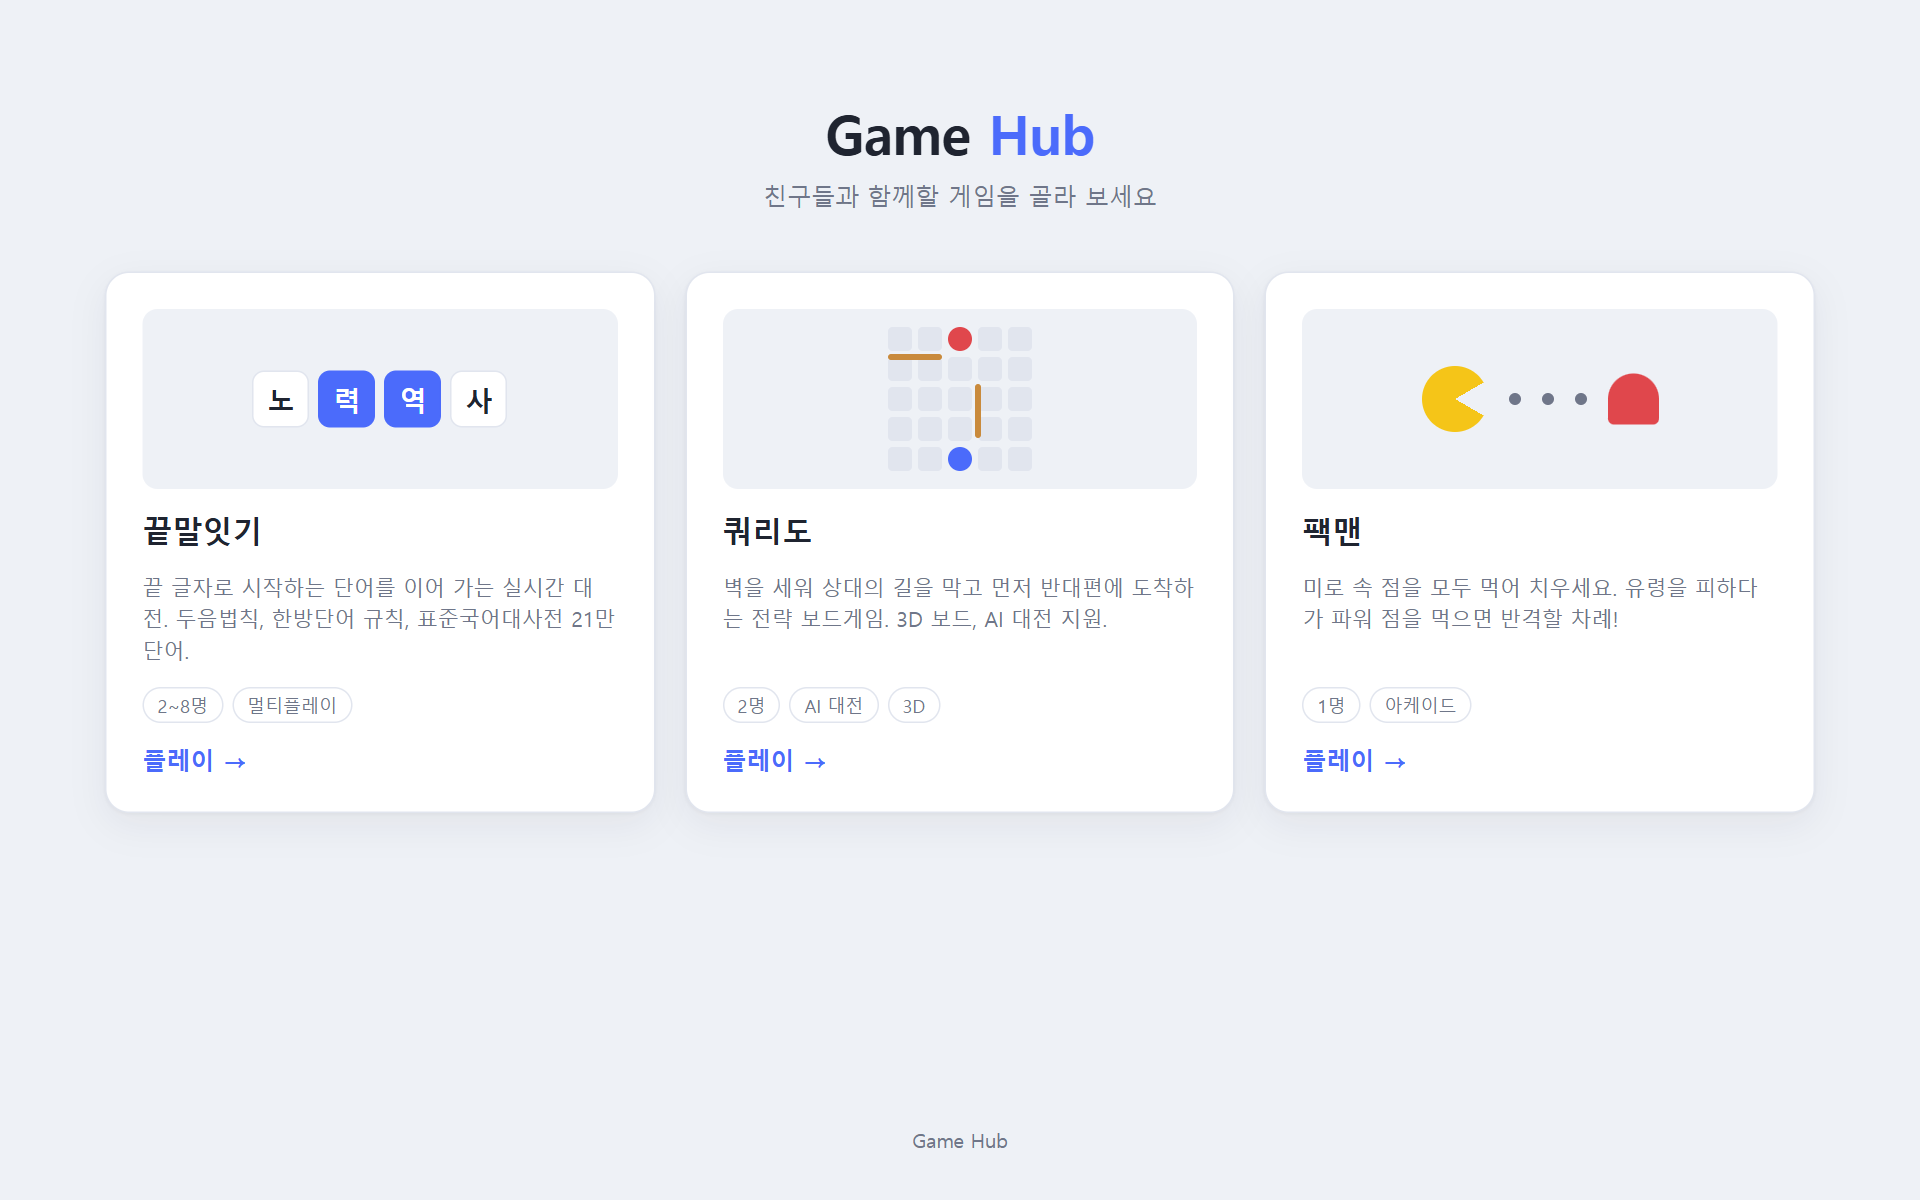
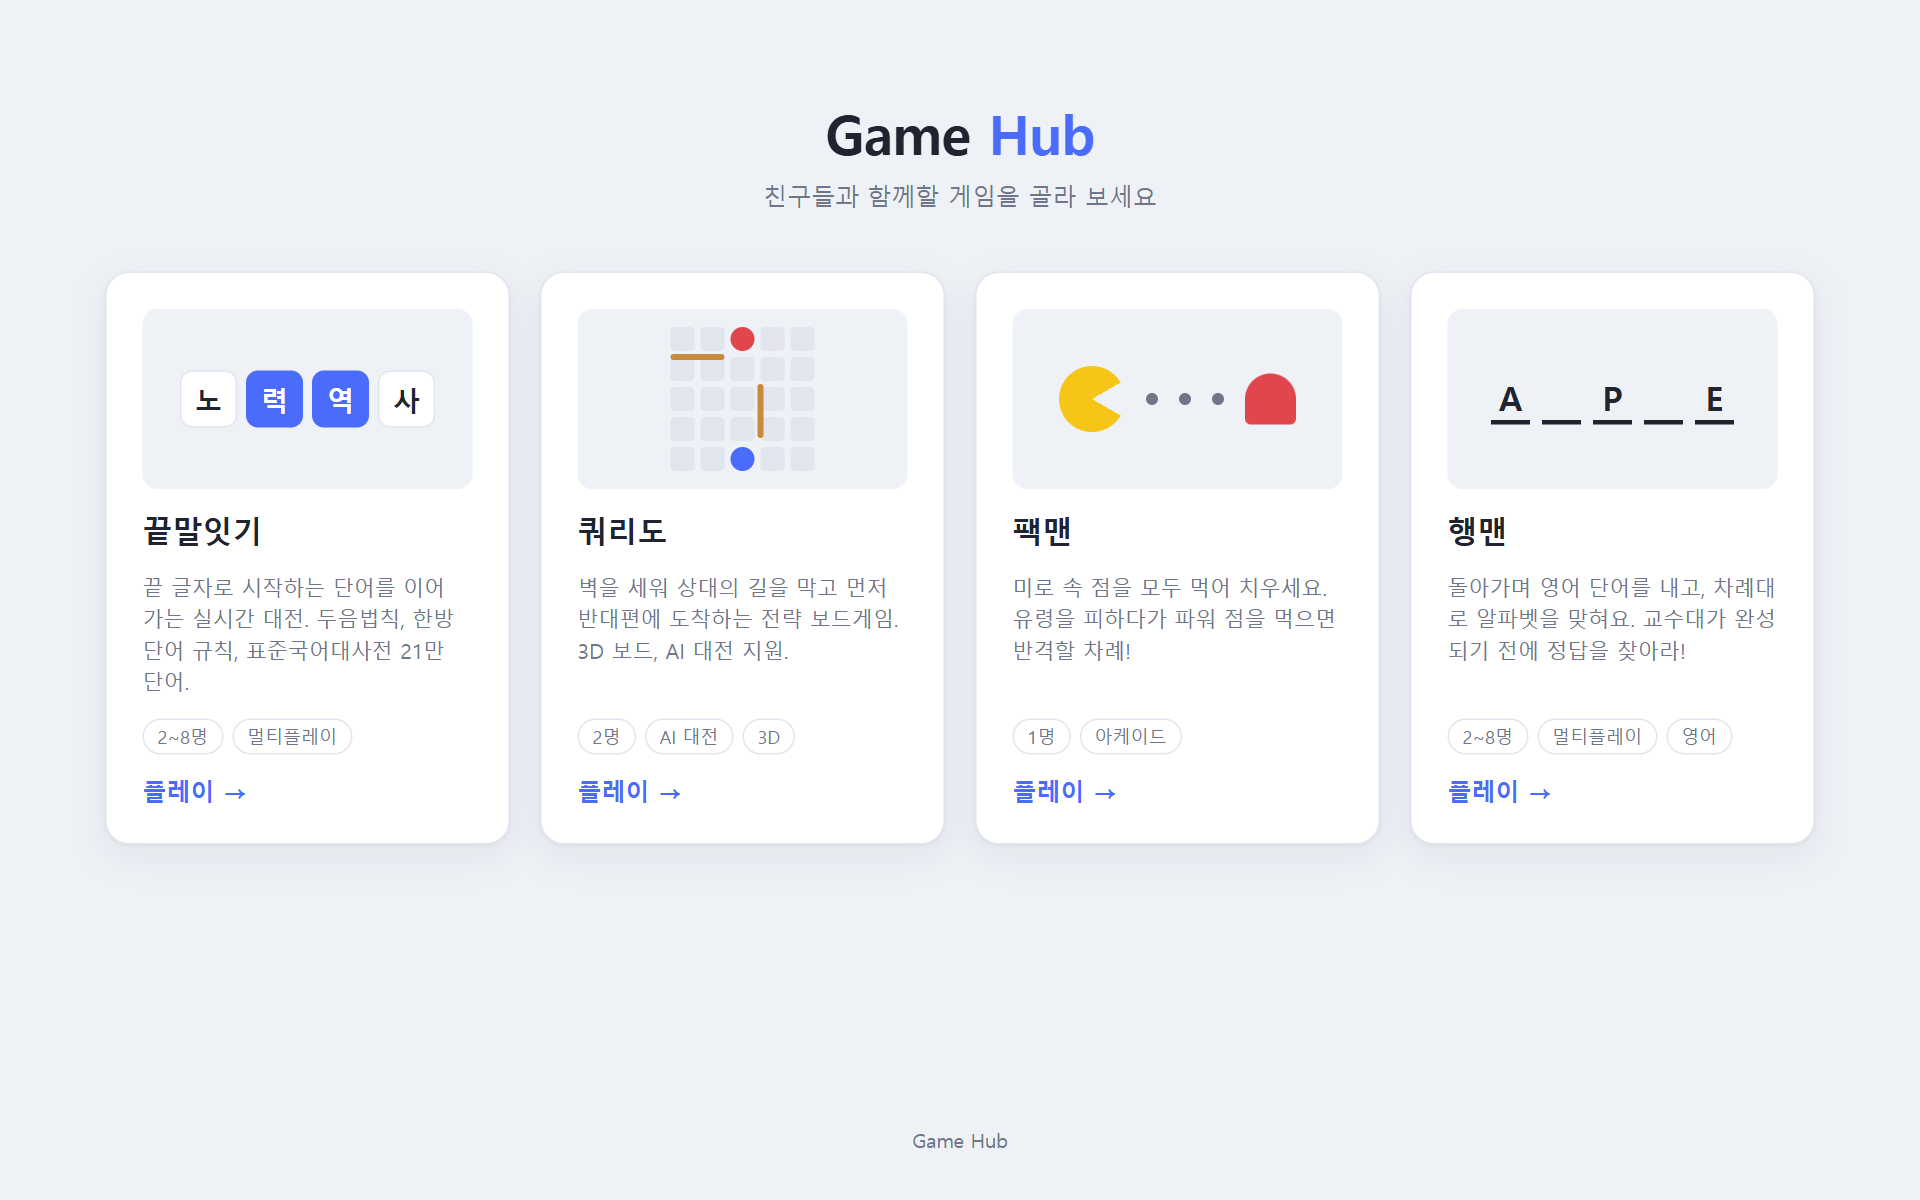
docs: 행맨 README와 개발 문서, 메인 화면 스크린샷 갱신

diff --git a/hangman/README.md b/hangman/README.md
@@ -1,0 +1,92 @@
+<div align="center">
+
+# 🔠 행맨 (Hangman)
+
+**돌아가며 문제를 내고, 교수대가 완성되기 전에 영어 단어를 맞혀라**
+
+### [▶ 지금 플레이하기](http://100.53.186.9/hangman/)
+
+<img src="../docs/images/hangman-game.png" alt="행맨 게임 화면" width="760">
+
+</div>
+
+---
+
+## 이런 게임이에요
+
+한 명이 **영어 단어**를 내면, 나머지가 **차례대로 알파벳을 하나씩** 골라 맞혀요.
+단어에 있는 글자면 빈칸이 채워지고, 없는 글자면 교수대에 사람이 한 획씩 그려집니다.
+**교수대가 완성되기 전에** 단어를 알아내세요!
+
+- 👥 **2~8명**이 함께해요. 모두 한 번씩 **출제자**가 돼요.
+- 📖 출제 단어는 **영어 사전(약 17만 단어)**에 있는 말만 낼 수 있어요.
+- 💡 추측이 몇 번 지나면 **힌트**가 공개돼요.
+
+## 게임 방법
+
+1. **닉네임을 입력**하고 로비에서 방을 만들거나 들어갑니다.
+2. 모두 **준비**하면 방장이 **게임 시작**을 눌러요.
+3. **방에 들어온 순서대로** 한 명씩 출제자가 돼요. 출제자는 영어 단어와 힌트(선택)를 적어서 냅니다.
+4. 나머지 사람은 **들어온 순서대로** 한 명씩 알파벳을 골라요. 화면 키보드를 누르거나 실제 키보드로 쳐도 돼요.
+5. 단어를 알 것 같으면 내 차례에 **단어 전체를 입력**해서 한 번에 맞힐 수도 있어요.
+6. 모두 출제를 한 번씩 하면 게임이 끝나고 순위가 나와요.
+
+## 규칙
+
+| 상황 | 결과 |
+|---|---|
+| 있는 글자를 고름 | 그 글자가 전부 열리고 **한 번 더** 고를 수 있어요. |
+| 없는 글자를 고름 | 교수대에 한 획이 그려지고 다음 사람 차례예요. |
+| 단어 전체를 맞힘 | 라운드 승리! 남은 빈칸만큼 점수를 받아요. |
+| 단어 전체를 틀림 | 교수대에 한 획, 다음 사람 차례예요. |
+| 시간 초과 | 벌점 없이 다음 사람에게 넘어가요. |
+| 교수대 완성 | 아무도 못 맞힘. **출제자**가 점수를 받아요. |
+
+- 출제자는 **60초** 안에 단어를 내야 해요. 넘기면 쉬운 단어가 자동으로 출제돼요.
+- 출제는 **3~15글자 영어 단어**만 되고, 사전에 없는 말은 받지 않아요.
+
+## 점수
+
+| 무엇을 | 점수 |
+|---|---:|
+| 맞힌 글자 1개 (`P`가 2번 나오면 2개) | 10 |
+| 단어 전체 맞히기 | 남은 빈칸 × 10 + **30** |
+| 교수대 완성 (출제자) | **50** |
+
+어려운 단어를 낼수록 출제자에게 유리하고, 빨리 알아챌수록 추측하는 사람에게 유리해요.
+
+## 힌트
+
+- 추측(글자, 단어, 시간 초과 모두 포함)이 **정해진 횟수만큼 지나면** 힌트가 공개돼요.
+- 출제자가 **힌트를 적었다면** 그 문구를 보여줘요.
+- 힌트를 안 적었다면 **빈칸 하나를 대신 열어 줘요.** 마지막 한 칸은 열지 않아요.
+
+## 방 설정
+
+| 설정 | 기본값 | 범위 |
+|---|:-:|:-:|
+| 출제 바퀴 수 (각자 몇 번씩 출제할지) | 1 | 1~3 |
+| 목숨 (틀릴 수 있는 횟수) | 6 | 4~10 |
+| 턴 시간 | 20초 | 10~60초 |
+| 힌트 공개 (추측 N번 뒤) | 4 | 1~15 |
+| 최대 인원 | 6명 | 2~8명 |
+
+## 자주 묻는 질문
+
+<details>
+<summary><b>게임 중에 누가 나가면요?</b></summary>
+
+- **추측할 차례인 사람**이 나가면 다음 사람에게 바로 넘어가요.
+- **출제자**가 나가면 그 라운드는 취소되고, 다음 사람이 출제해요.
+- 두 명 미만이 되면 게임이 끝나요.
+</details>
+
+<details>
+<summary><b>다른 사람들이 정답을 몰래 볼 수는 없나요?</b></summary>
+
+없어요. 정답은 서버와 출제자만 알고 있고, 다른 사람의 화면에는 빈칸 모양만 보내요.
+</details>
+
+---
+
+<sub>[← Game Hub로 돌아가기](../README.md) · 영어 사전: ENABLE word list (퍼블릭 도메인)</sub>

diff --git a/docs/DEVELOPMENT.md b/docs/DEVELOPMENT.md
@@ -18,6 +18,7 @@ http://127.0.0.1:8000 을 여세요.
   - 허브 통합 테스트: `pytest tests`
   - 끝말잇기 규칙·접속 관리: `cd wordchain && pytest`
   - 팩맨 규칙: `node --test pacman/tests/logic.test.mjs` (Node 18 이상)
+  - 행맨 게임 흐름: `cd hangman && pytest`
 
 ## 구조
 
@@ -28,6 +29,7 @@ hub/
 wordchain/       끝말잇기 (FastAPI 앱: wordchain/app/main.py)
 quoridor/        쿼리도   (FastAPI 앱: quoridor/server/main.py)
 pacman/          팩맨     (FastAPI 앱: pacman/app.py, 정적 파일만 제공)
+hangman/         행맨     (FastAPI 앱: hangman/app/main.py)
 deploy/          서버 설치, 업데이트 스크립트
 docs/            이 문서, README용 스크린샷
 tests/           허브 통합 테스트
@@ -39,6 +41,7 @@ tests/           허브 통합 테스트
 | `/wordchain/` | 끝말잇기 |
 | `/quoridor/` | 쿼리도 |
 | `/pacman/` | 팩맨 |
+| `/hangman/` | 행맨 |
 
 - 각 게임은 독립된 FastAPI 앱이고, 자원과 WebSocket을 **페이지 기준 상대 경로**로 불러옵니다. 그래서 어느 경로에 붙여도 동작합니다.
 - 게임 상태는 각 앱의 **메모리**에 있습니다. uvicorn 워커는 반드시 1개로 실행합니다.
@@ -224,3 +227,44 @@ pacman/
 - 유령 상태: `house`(집 안) → `leaving` → `normal` → (먹히면) `eaten` → `entering` → `leaving` …
 - 디버그: 브라우저 콘솔에서 `__pacman.game`, `__pacman.pac`, `__pacman.ghosts`로 상태를 볼 수 있습니다.
 - 그리기는 `game.js`의 `draw*` 함수에 모여 있습니다. 디자인을 바꿀 때는 이 부분과 `style.css`만 고치면 됩니다.
+
+---
+
+## 행맨
+
+접속·로비·방 관리(`server.py`, `room.py`, `models.py`)는 끝말잇기와 같은 구조입니다. 게임 규칙은 `game.py`에 있습니다.
+
+```
+hangman/
+  app/
+    main.py      FastAPI 앱, /ws 엔드포인트
+    server.py    접속자·로비·방 목록, 닉네임 중복 처리, 메시지 라우팅
+    room.py      대기실(참가자, 준비, 설정), 게임 시작/종료
+    game.py      라운드 진행(출제 → 추측 → 정답 공개), 차례, 점수, 힌트, 퇴장 처리
+    words.py     영어 단어 목록 로딩과 검사
+  static/        index.html, style.css, app.js
+  data/
+    enable1.txt       ENABLE 단어 목록 (퍼블릭 도메인, 약 17만 단어)
+    common_words.txt  출제 시간 초과 때 자동으로 낼 쉬운 단어
+  tests/
+```
+
+- 라운드 단계: `setting`(출제) → `guessing`(추측) → `break`(정답 공개) → 다음 라운드
+- 출제 순서와 추측 순서는 모두 **방에 들어온 순서**입니다. 추측 순서는 출제자 다음 사람부터 시작하고 출제자는 건너뜁니다.
+- 게임 상태는 플레이어마다 따로 보냅니다(`type: "game"`). **정답(`word`)은 출제자와 정답 공개 때만** 들어갑니다.
+- 테스트에서 여러 WebSocket을 열 때는 `with TestClient(app) as client:`처럼 열어야 모든 연결이 이벤트 루프 하나를 공유합니다.
+
+### WebSocket 메시지
+
+접속, 로비, 방, 채팅 메시지와 종료 코드는 끝말잇기와 같습니다. 게임 메시지만 다릅니다.
+
+| 클라이언트 → 서버 | 필드 |
+|---|---|
+| `set_word` | `word`, `hint` (출제자만) |
+| `guess` | `text` (알파벳 1글자 또는 단어 전체, 내 차례만) |
+| `update_settings` | `settings: {cycles, lives, turn_time, hint_turn, max_players}` |
+
+| 서버 → 클라이언트 | 설명 |
+|---|---|
+| `game` | `game`: 내 시점의 게임 상태, `events`: 방금 일어난 일 목록 (`letter_ok`, `letter_fail`, `word_ok`, `hint` …) |
+| `game_over` | 최종 순위 |

diff --git a/README.md b/README.md
@@ -19,6 +19,7 @@
 | 🔤 | **[끝말잇기](wordchain/README.md)** | 2~8명 | 21만 단어 사전으로 겨루는 실시간 끝말잇기 |
 | 🧱 | **[쿼리도](quoridor/README.md)** | 1~2명 | 벽을 세워 길을 막는 3D 전략 보드게임 |
 | 🟡 | **[팩맨](pacman/README.md)** | 1명 | 유령을 피해 미로 속 점을 먹어 치우는 아케이드 |
+| 🔠 | **[행맨](hangman/README.md)** | 2~8명 | 돌아가며 영어 단어를 내고 차례대로 맞히는 추리 게임 |
 
 ### 🔤 끝말잇기
 
@@ -49,6 +50,15 @@ AI가 한 수 한 수를 어떻게 평가하는지 보여주는 **학습 모드*
 
 [게임 설명 보기 →](pacman/README.md)
 
+### 🔠 행맨
+
+<img src="docs/images/hangman-game.png" alt="행맨 게임 화면" width="760">
+
+한 명이 영어 단어를 내면, 나머지가 차례대로 알파벳을 골라 맞히는 게임입니다.
+틀릴 때마다 교수대가 한 획씩 그려져요. 모두가 돌아가며 출제자가 되고, 추측이 길어지면 힌트가 열립니다.
+
+[게임 설명 보기 →](hangman/README.md)
+
 ---
 
 ## 이렇게 시작하세요
@@ -64,7 +74,7 @@ AI가 한 수 한 수를 어떻게 평가하는지 보여주는 **학습 모드*
 <details>
 <summary><b>회원가입을 해야 하나요?</b></summary>
 
-아니요. 끝말잇기는 닉네임만 입력하면 되고, 쿼리도와 팩맨은 바로 시작할 수 있어요.
+아니요. 끝말잇기와 행맨은 닉네임만 입력하면 되고, 쿼리도와 팩맨은 바로 시작할 수 있어요.
 </details>
 
 <details>
@@ -102,6 +112,7 @@ AI가 한 수 한 수를 어떻게 평가하는지 보여주는 **학습 모드*
 
 | 날짜 | 내용 |
 |---|---|
+| 2026-10-01 | 🔠 **행맨 추가** (2~8명, 돌아가며 출제) |
 | 2026-10-01 | 🟡 **팩맨 추가** (1인용) |
 | 2026-09-30 | 🎉 **Game Hub 오픈**: 끝말잇기와 쿼리도를 한곳에서 |
 | 2026-09-30 | 두 게임 디자인 통일, 끝말잇기 단어 착지 효과 |
@@ -122,6 +133,7 @@ AI가 한 수 한 수를 어떻게 평가하는지 보여주는 **학습 모드*
 ## 출처
 
 - 끝말잇기 사전: 국립국어원 [표준국어대사전](https://stdict.korean.go.kr)
+- 행맨 영어 사전: ENABLE word list (퍼블릭 도메인)
 - 3D 렌더링: [three.js](https://threejs.org) (MIT License)
 
 <br>
